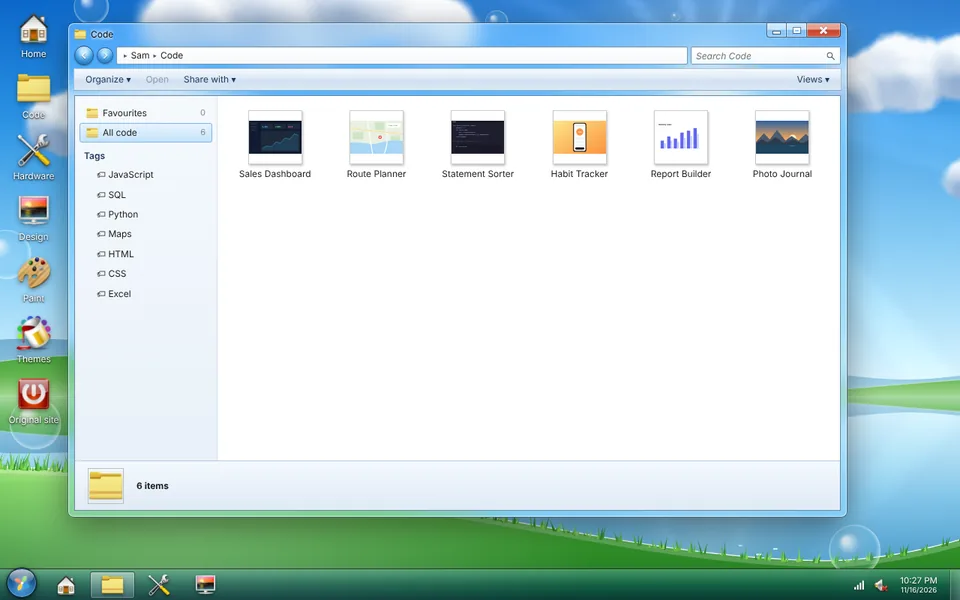
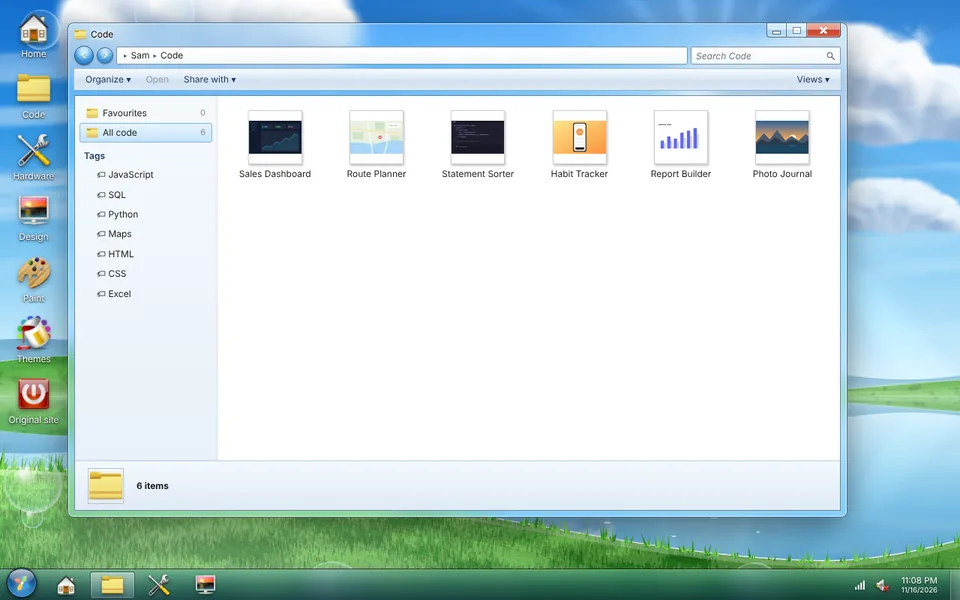
Frutiger 7 wallpaper: textured sky and grass instead of plain gradients
Sky gets uneven haze and wispy cirrus; the distant hills get a soft meadow
mottle with clumps of trees; the front bank gets a lawn texture with sunlit
patches and thousands of short blades. Clouds also stay clear of the moon at
night, and the scene no longer builds twice on load.

Claude-Session: https://claude.ai/code/session_0166s5JxgV2PgHTG3SVT3E7y

diff --git a/themes/aero/theme.js b/themes/aero/theme.js
@@ -247,24 +247,49 @@
       for (let x = -2; x <= W + 2; x += 4) c[x === -2 ? 'moveTo' : 'lineTo'](x, fn(x / W) + dy);
     };
 
-    // ---- one cumulus cloud, from layered noise ----
-    // A few soft blobs give the overall shape (domed top, flat base); noise breaks
-    // up the edge; lighting compares density toward the light with density here.
-    function makeCloud(w, h, rnd) {
-      const res = 0.7;                                     // drawn a bit smaller than shown; it's soft anyway
-      const cw = Math.max(8, Math.round(w * res)), ch = Math.max(8, Math.round(h * res));
+    // ---- value noise (seeded) ----
+    function makeNoise(rnd) {
       const perm = new Uint8Array(512);
       for (let i = 0; i < 256; i++) perm[i] = i;
       for (let i = 255; i > 0; i--) { const j = Math.floor(rnd() * (i + 1)); [perm[i], perm[j]] = [perm[j], perm[i]]; }
       for (let i = 0; i < 256; i++) perm[i + 256] = perm[i];
-      const hash = (x, y) => perm[(perm[x & 255] + y) & 511] / 255;
+      const hash = (x, y) => perm[(perm[x & 255] + (y & 255)) & 511] / 255;
       const noise = (x, y) => {
         const xi = Math.floor(x), yi = Math.floor(y), xf = x - xi, yf = y - yi;
         const u = xf * xf * (3 - 2 * xf), v = yf * yf * (3 - 2 * yf);
         const a = hash(xi, yi), b = hash(xi + 1, yi), c = hash(xi, yi + 1), d = hash(xi + 1, yi + 1);
         return a + (b - a) * u + (c - a) * v + (a - b - c + d) * u * v;
       };
-      const fbm = (x, y) => { let s = 0, a = 0.5; for (let o = 0; o < 5; o++) { s += a * noise(x, y); x *= 2.03; y *= 2.03; a *= 0.5; } return s; };
+      const fbm = (x, y, oct = 5) => { let s = 0, a = 0.5, n = 0; for (let o = 0; o < oct; o++) { s += a * noise(x, y); n += a; x *= 2.03; y *= 2.03; a *= 0.5; } return s / n; };
+      return { noise, fbm };
+    }
+
+    // Multiply the colour of every drawn pixel in a rectangle by fn(x, y) (CSS px).
+    function texture(c, x0, y0, w, h, fn) {
+      const X = Math.max(0, Math.floor(x0 * dpr)), Y = Math.max(0, Math.floor(y0 * dpr));
+      const cw = Math.min(c.canvas.width - X, Math.ceil(w * dpr)), ch = Math.min(c.canvas.height - Y, Math.ceil(h * dpr));
+      if (cw <= 0 || ch <= 0) return;
+      const img = c.getImageData(X, Y, cw, ch), d = img.data;
+      for (let py = 0; py < ch; py++) {
+        const y = (Y + py) / dpr;
+        for (let px = 0; px < cw; px++) {
+          const i = (py * cw + px) * 4;
+          if (d[i + 3] === 0) continue;
+          const f = fn((X + px) / dpr, y);
+          if (f === 1) continue;
+          d[i] = Math.min(255, d[i] * f); d[i + 1] = Math.min(255, d[i + 1] * f); d[i + 2] = Math.min(255, d[i + 2] * f);
+        }
+      }
+      c.putImageData(img, X, Y);
+    }
+
+    // ---- one cumulus cloud, from layered noise ----
+    // A few soft blobs give the overall shape (domed top, flat base); noise breaks
+    // up the edge; lighting compares density toward the light with density here.
+    function makeCloud(w, h, rnd) {
+      const res = 0.7;                                     // drawn a bit smaller than shown; it's soft anyway
+      const cw = Math.max(8, Math.round(w * res)), ch = Math.max(8, Math.round(h * res));
+      const { fbm } = makeNoise(rnd);
       const blobs = [];
       const n = 4 + Math.floor(rnd() * 3);
       for (let i = 0; i < n; i++) {
@@ -322,6 +347,7 @@
       sun = { x: W * 0.74, y: H * 0.16 };
       const rnd = seeded(night ? 11 : 7);
       const k = Math.min(1.4, Math.max(0.6, Math.min(W, H) / 800));   // detail scale
+      const N = makeNoise(seeded(night ? 23 : 19));
 
       // sky
       const [sky, s] = layer(W, hz);
@@ -333,6 +359,38 @@
       }
       s.fillStyle = g;
       s.fillRect(0, 0, W, hz);
+      // uneven haze and high wispy cirrus, so the sky isn't one clean fade
+      {
+        const q = 4, qw = Math.ceil(W / q), qh = Math.ceil(hz / q);
+        const qc = document.createElement('canvas');
+        qc.width = qw; qc.height = qh;
+        const qx = qc.getContext('2d');
+        const img = qx.createImageData(qw, qh), d = img.data;
+        const wisp = night ? [150, 172, 215] : [255, 255, 255];
+        for (let py = 0; py < qh; py++) {
+          const y = py * q, v = y / hz;
+          const band = smooth(0.03, 0.2, v) * (1 - smooth(0.5, 0.85, v));
+          for (let px = 0; px < qw; px++) {
+            const x = px * q;
+            const i = (py * qw + px) * 4;
+            const haze = N.fbm(x / 520, y / 260, 3) - 0.5;
+            const ty = y + x * 0.07;                                        // a slight diagonal sweep
+            const wx = x + (N.fbm(x / 260, ty / 90, 3) - 0.5) * 260;         // curl the streaks
+            const c = N.fbm(wx / 420 + 30, ty / 26, 5);
+            const a = smooth(0.5, 0.76, c) * band * (night ? 0.12 : 0.42);
+            if (haze > 0 || a > 0) {
+              const ha = Math.max(0, haze) * (night ? 0.05 : 0.22);
+              const al = a + ha * (1 - a);
+              d[i] = wisp[0]; d[i + 1] = wisp[1]; d[i + 2] = wisp[2]; d[i + 3] = al * 255;
+            } else {
+              d[i] = night ? 0 : 0; d[i + 1] = night ? 6 : 50; d[i + 2] = night ? 20 : 150; d[i + 3] = -haze * (night ? 0.25 : 0.16) * 255;
+            }
+          }
+        }
+        qx.putImageData(img, 0, 0);
+        s.imageSmoothingQuality = 'high';
+        s.drawImage(qc, 0, 0, qw * q, qh * q);
+      }
       const R = Math.max(W, H);
       if (night) {
         const mr = 10 + 0.022 * Math.min(W, H);
@@ -382,6 +440,19 @@
       g = l.createLinearGradient(0, hz - H * 0.065, 0, hz);
       g.addColorStop(0, night ? '#0b2e2e' : '#4aa63f'); g.addColorStop(0.65, night ? '#0e3a39' : '#6dbb55'); g.addColorStop(1, night ? '#12463f' : '#8fcd78');
       l.fillStyle = g; l.fill();
+      // fields and hedgerows on the near hills, a softer mottle on the hazy far range
+      texture(l, 0, hz - H * 0.13, W, H * 0.13, (x, y) => {
+        const u = x / W;
+        if (y >= midRidge(u)) {
+          const depth = 1 - (hz - y) / (H * 0.07);                            // 1 at the waterline
+          const s = 1 + (1 - depth) * 0.6;
+          let f = 1 + (N.fbm(x / (60 * s), y / (36 * s), 3) - 0.5) * 0.32;     // sunlit and shaded meadow
+          f *= 1 - smooth(0.58, 0.78, N.fbm(x / 9 + 50, y / 7, 3)) * 0.13;    // soft clumps of trees
+          return f + (N.noise(x / 2.5, y / 2.5) - 0.5) * 0.04;                // grain
+        }
+        if (y >= farRidge(u)) return 1 + (N.fbm(x / 90, y / 18, 3) - 0.5) * 0.14;
+        return 1;
+      });
       ridgeLine(l, midRidge);
       l.strokeStyle = night ? 'rgba(120,255,210,0.18)' : 'rgba(255,255,255,0.4)';
       l.lineWidth = 1.2; l.stroke();
@@ -418,6 +489,38 @@
       else { g.addColorStop(0, '#a3ea66'); g.addColorStop(0.18, '#62c63f'); g.addColorStop(0.6, '#33952a'); g.addColorStop(1, '#1b6a1c'); }
       b.fillStyle = g; b.fill();
       b.save(); b.clip();
+      // lawn texture: sunlit and shaded patches, vertical blade grain, then
+      // thousands of short blades (bigger toward the bottom, which is closer)
+      texture(b, 0, top - 4, W, H - top + 4, (x, y) => {
+        const dd = Math.max(0, (y - top) / (H - top)), s = 1 + dd * 3;
+        return 1 + (N.fbm(x / (70 * s), y / (20 * s), 3) - 0.5) * 0.5
+                 + (N.noise(x / (1.4 * s), y / (6 * s)) - 0.5) * 0.24;
+      });
+      {
+        const tones = night
+          ? [['rgba(110,210,150,0.16)', 'rgba(1,10,5,0.35)']]
+          : [['rgba(220,255,150,0.32)', 'rgba(15,70,10,0.3)']];
+        const paths = [new Path2D(), new Path2D(), new Path2D(), new Path2D()];   // [light, dark] x [thin, thick]
+        const count = Math.round(W * (H - top) / 9);
+        for (let i = 0; i < count; i++) {
+          const x = rnd() * W;
+          const ry = bankRidge(x / W) + 3;
+          const y = ry + rnd() ** 1.3 * (H - ry);
+          const dd = (y - top) / (H - top);
+          const len = (2 + rnd() * 5) * (0.5 + dd * 2.2) * k;
+          const lean = (rnd() - 0.45) * len * 0.5;
+          const light = N.fbm(x / 70, y / 20, 2) + (rnd() - 0.5) * 0.5 > 0.5;
+          const p = paths[(light ? 0 : 2) + (dd > 0.45 ? 1 : 0)];
+          p.moveTo(x, y);
+          p.lineTo(x + lean, y - len);
+        }
+        b.lineCap = 'round';
+        paths.forEach((p, i) => {
+          b.strokeStyle = tones[0][i < 2 ? 0 : 1];
+          b.lineWidth = (i % 2 ? 1.5 : 0.8) * k;
+          b.stroke(p);
+        });
+      }
       g = b.createRadialGradient(W * 0.18, top + H * 0.02, 0, W * 0.18, top + H * 0.02, W * 0.45);
       g.addColorStop(0, night ? 'rgba(120,255,210,0.08)' : 'rgba(255,255,255,0.35)'); g.addColorStop(1, 'rgba(255,255,255,0)');
       b.fillStyle = g; b.fillRect(0, top, W, H - top);
@@ -456,7 +559,7 @@
         const w = Math.min(560, Math.max(120, W * (0.34 - depth * 0.22) * (0.8 + rnd() * 0.4)));
         const h = w * (night ? 0.36 : 0.5);
         let cx = rnd() * (W + w) - w;
-        if (!night && Math.abs(cx + w / 2 - sun.x) < w * 0.7 + 60 && depth < 0.5) cx = (cx + W * 0.45) % W - w * 0.5;
+        if (Math.abs(cx + w / 2 - sun.x) < w * 0.7 + 60 && depth < 0.5) cx = (cx + W * 0.45) % W - w * 0.5;
         clouds.push({
           img: makeCloud(w, h, rnd), w, h,
           x: cx,
@@ -610,7 +713,11 @@
 
     const rebuild = () => { build(); draw(); };
     let pending = 0;
-    const ro = new ResizeObserver(() => { clearTimeout(pending); pending = setTimeout(rebuild, W ? 120 : 0); });
+    const ro = new ResizeObserver(() => {
+      if (canvas.clientWidth === W && canvas.clientHeight === H) return;     // the first call, right after build
+      clearTimeout(pending);
+      pending = setTimeout(rebuild, 120);
+    });
     ro.observe(canvas);
     const mo = new MutationObserver(() => { if ((html.dataset.scheme === 'dark') !== night) rebuild(); });
     mo.observe(html, { attributes: true, attributeFilter: ['data-scheme'] });
